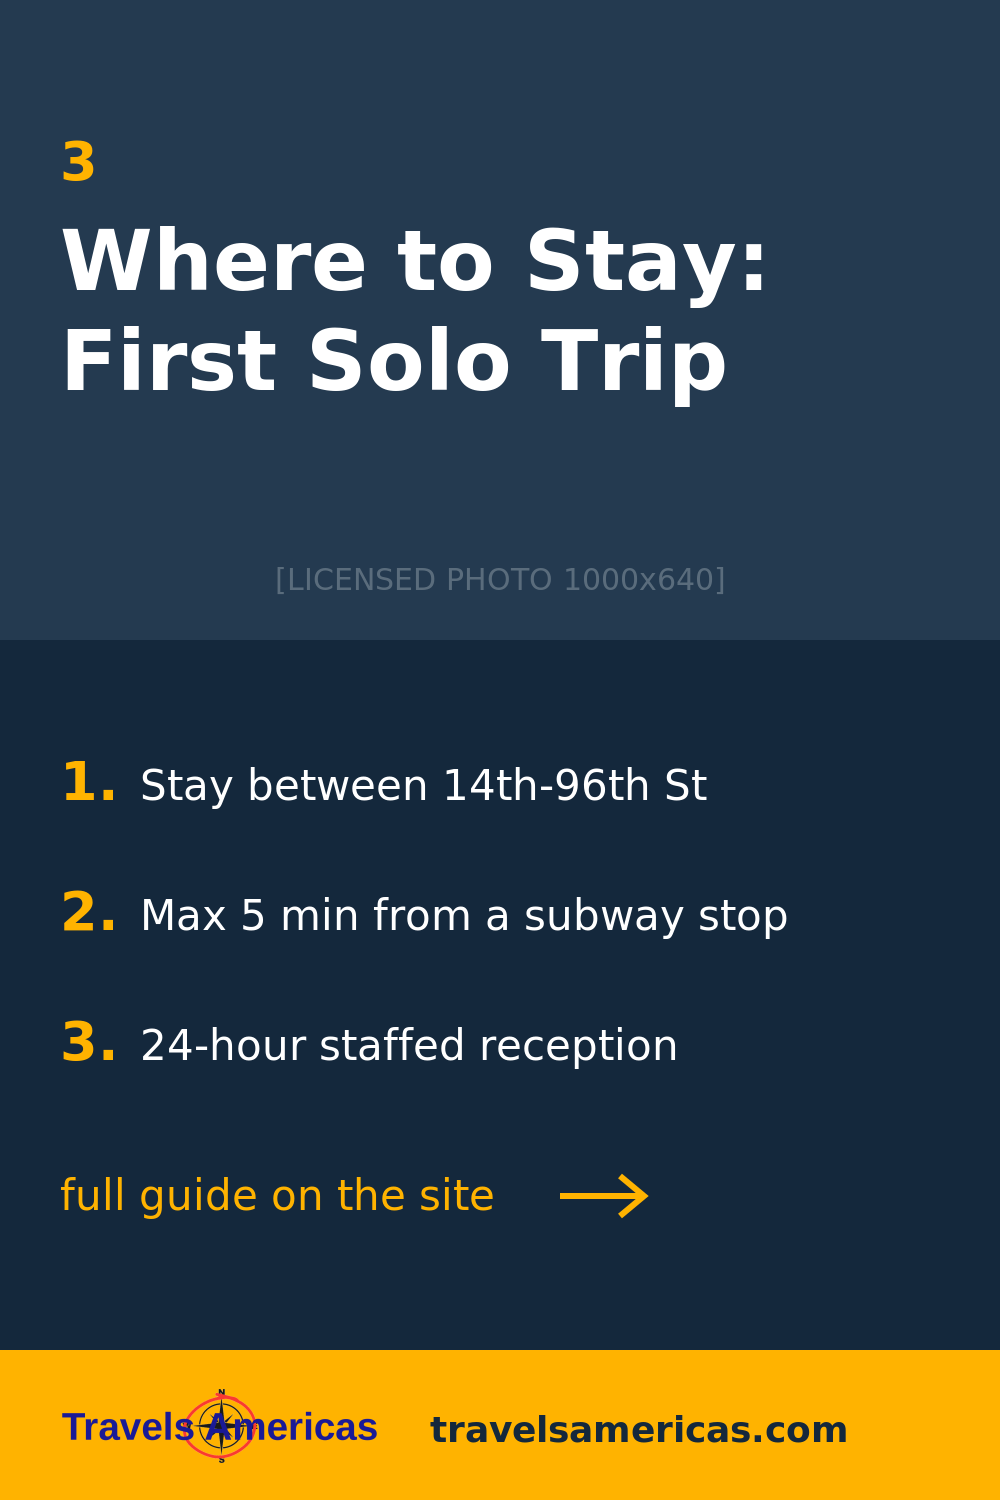
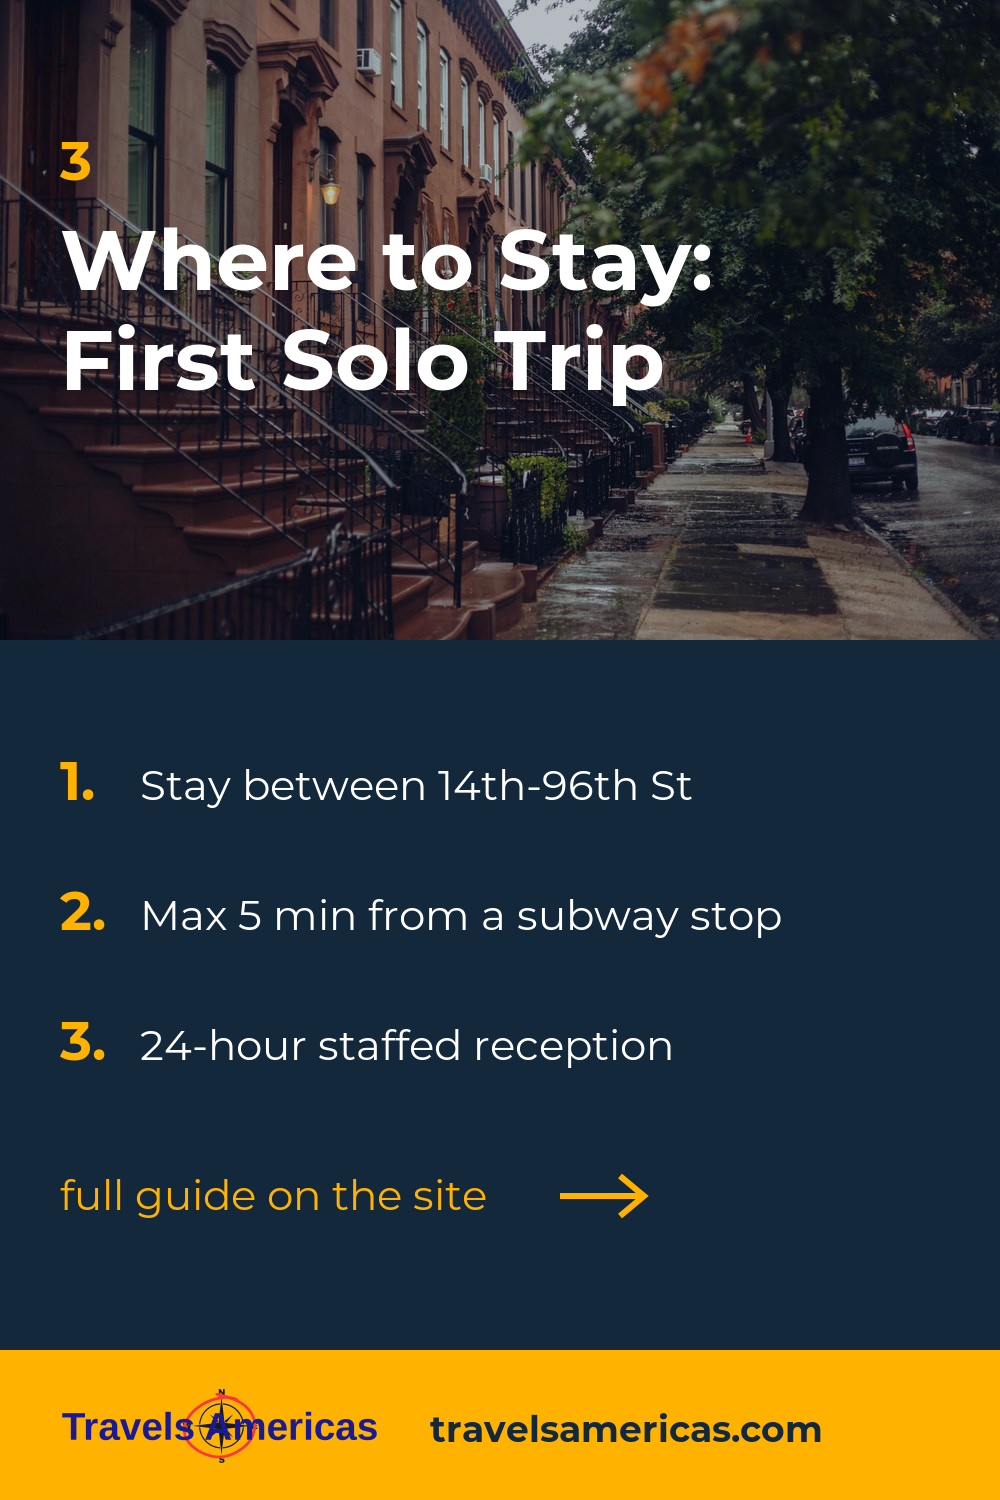
updated the changes on the commit

diff --git a/app/api/drip/route.ts b/app/api/drip/route.ts
@@ -199,14 +199,14 @@ const DRIP_SCHEDULE = [
   {
     step: 5,
     daysAfterPrev: 7,
-    subject: 'The 4 things to book before NYC sells out 🗽',
+    subject: 'The 5 things to book before NYC sells out 🗽',
     html: (email: string) => emailShell(
       'Most first-timers miss at least one of these — and regret it on the trip.',
       'https://www.travelsamericas.com/email/Ready-to-book.jpg',
       'Solo traveler on Brooklyn Bridge looking toward Manhattan skyline at golden hour',
       `
       <h2 style="color:#2563eb;margin:0 0 8px;font-size:22px">Don't leave these until the last minute</h2>
-      <p style="margin:0 0 16px;line-height:1.6">You've got the itinerary, the neighbourhood guide, the airport routes. Now let's get you booked — here are the 4 things that sell out or get expensive fast:</p>
+      <p style="margin:0 0 16px;line-height:1.6">You've got the itinerary, the neighborhood guide, the airport routes. Now let's get you booked — here are the 5 things that sell out or get expensive fast:</p>
 
       <div style="display:flex;gap:16px;margin:0 0 20px;align-items:flex-start">
         <div style="background:#2563eb;color:#fff;border-radius:50%;min-width:32px;height:32px;font-weight:700;font-size:15px;line-height:32px;text-align:center">1</div>
@@ -237,6 +237,14 @@ const DRIP_SCHEDULE = [
         <div>
           <p style="margin:0 0 4px;font-weight:700;font-size:15px">🚇 OMNY card — get it at the airport</p>
           <p style="margin:0;color:#374151;font-size:14px;line-height:1.6">Tap your credit card or get an OMNY card at any subway station. The 7-day unlimited pass costs <strong>$34</strong> and pays for itself after 12 rides. Skip the single-ride tickets — they waste time at the machines.</p>
+        </div>
+      </div>
+
+      <div style="display:flex;gap:16px;margin:0 0 24px;align-items:flex-start">
+        <div style="background:#2563eb;color:#fff;border-radius:50%;min-width:32px;height:32px;font-weight:700;font-size:15px;line-height:32px;text-align:center">5</div>
+        <div>
+          <p style="margin:0 0 4px;font-weight:700;font-size:15px">🛡️ Travel insurance — buy before you fly</p>
+          <p style="margin:0;color:#374151;font-size:14px;line-height:1.6">Visiting from outside the US? Your home health plan likely won't cover you here, and even a minor ER visit gets expensive. A traveler policy like <a href="${process.env.NEXT_PUBLIC_SAFETYWING_URL || 'https://safetywing.com/nomad-insurance/'}" style="color:#2563eb;font-weight:600">SafetyWing Nomad Insurance</a> costs a few dollars a day — it only works if you buy it before departure.</p>
         </div>
       </div>
 

diff --git a/app/destination/nyc/nyc-female-solo-travel-guide/components/safetynarrative/FemaleSafetyNarrative.tsx b/app/destination/nyc/nyc-female-solo-travel-guide/components/safetynarrative/FemaleSafetyNarrative.tsx
@@ -1,4 +1,5 @@
 import styles from "./FemaleSafetyNarrative.module.css";
+import { SAFETYWING_URL } from "@/app/lib/affiliates";
 
 // Long-form narrative for the female-solo NYC safety guide.
 // Targets the highest-impression GSC query ("new york city safety for solo
@@ -97,6 +98,17 @@ export default function FemaleSafetyNarrative() {
           <li>Avoid ground-floor rooms with street-accessible windows if you have the option.</li>
           <li>Use the in-room safe for passport, backup cards, and anything you don&apos;t need on your person. Don&apos;t keep everything in your purse.</li>
         </ul>
+        <p>
+          One more pre-arrival item worth handling alongside your booking:
+          travel insurance. Solo, there&apos;s no travel partner to manage
+          logistics if you get sick or hurt, and US medical costs are steep for
+          visitors. A traveler-focused policy like{" "}
+          <a href={SAFETYWING_URL} target="_blank" rel="sponsored noopener">
+            SafetyWing Nomad Insurance
+          </a>{" "}
+          covers medical care and costs a few dollars a day &mdash; set it up
+          before you fly, then forget about it.
+        </p>
       </section>
 
       <section id="getting-around-female-solo" className={styles.section}>

diff --git a/app/destination/nyc/solo-trip-to-nyc/components/solotripnarrative/SoloTripNarrative.tsx b/app/destination/nyc/solo-trip-to-nyc/components/solotripnarrative/SoloTripNarrative.tsx
@@ -1,4 +1,5 @@
 import styles from "./SoloTripNarrative.module.css";
+import { SAFETYWING_URL } from "@/app/lib/affiliates";
 
 // Long-form editorial for solo-trip-to-nyc page.
 // Targets top GSC queries: "travel to nyc alone" (162 impressions) and
@@ -74,6 +75,16 @@ export function SoloTripNarrative() {
           The single biggest cost lever is the hotel. The single biggest savings
           lever is eating one meal per day at a counter or bar (vs. a sit-down
           table) and one meal per day from a deli, food hall, or counter spot.
+        </p>
+        <p>
+          One line item these budgets exclude: travel insurance. If you&apos;re
+          visiting from outside the US, add it &mdash; American healthcare costs
+          make even a minor ER visit expensive, and most foreign health plans
+          won&apos;t cover you here. Budget traveler policies like{" "}
+          <a href={SAFETYWING_URL} target="_blank" rel="sponsored noopener">
+            SafetyWing Nomad Insurance
+          </a>{" "}
+          run a few dollars a day and take five minutes to set up before you fly.
         </p>
       </section>
 

diff --git a/app/lib/affiliates.ts b/app/lib/affiliates.ts
@@ -1,0 +1,10 @@
+// Affiliate link config — set the real referral URLs in Vercel env vars.
+// NEXT_PUBLIC_ prefix is required: these render inside client components.
+// Fallbacks are plain (non-affiliate) URLs so links still work if unset.
+
+export const SAFETYWING_URL =
+  process.env.NEXT_PUBLIC_SAFETYWING_URL ||
+  "https://safetywing.com/nomad-insurance/";
+
+export const AIRALO_URL =
+  process.env.NEXT_PUBLIC_AIRALO_URL || "https://www.airalo.com/";

diff --git a/app/destination/nyc/nyc-safety-guide/components/safetynarrative/SafetyNarrative.tsx b/app/destination/nyc/nyc-safety-guide/components/safetynarrative/SafetyNarrative.tsx
@@ -1,4 +1,5 @@
 import styles from "./SafetyNarrative.module.css";
+import { SAFETYWING_URL } from "@/app/lib/affiliates";
 
 // Long-form prose section that adds editorial depth to nyc-safety-guide.
 // Designed to land featured snippets via direct-answer paragraphs after each
@@ -207,6 +208,7 @@ export default function SafetyNarrative() {
           <li><strong>Save NYPD non-emergency (311) and 911 to favorites.</strong> Add the contact info for your hotel&apos;s front desk too &mdash; useful if you&apos;re ever in a position where you need to be picked up or escorted in.</li>
           <li><strong>Take a photo of your passport ID page</strong> and email it to yourself. If your wallet gets lifted, you&apos;ll move faster at the consulate or with TSA on the way home.</li>
           <li><strong>Carry two payment methods in different places.</strong> A card in your front pocket and a backup card in a hotel safe. Cash for tips and small transit needs.</li>
+          <li><strong>Sort travel insurance before you fly.</strong> A single ER visit in NYC can run four figures; if you&apos;re visiting from abroad, your home coverage likely won&apos;t apply. <a href={SAFETYWING_URL} target="_blank" rel="sponsored noopener">SafetyWing&apos;s Nomad Insurance</a> is a solid budget option built for travelers &mdash; whichever provider you pick, buy it before departure, not after something happens.</li>
         </ul>
         <h3>While you&apos;re here</h3>
         <ul>